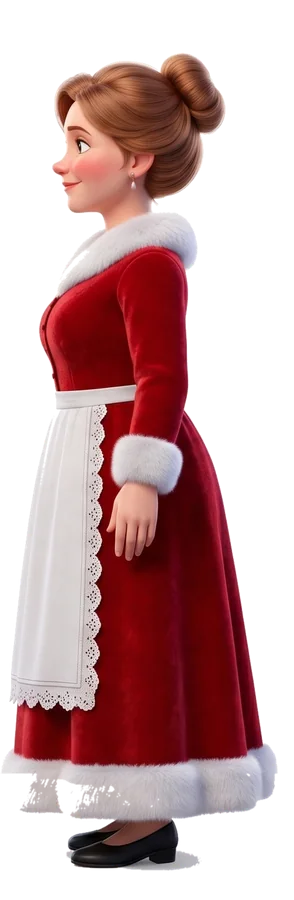
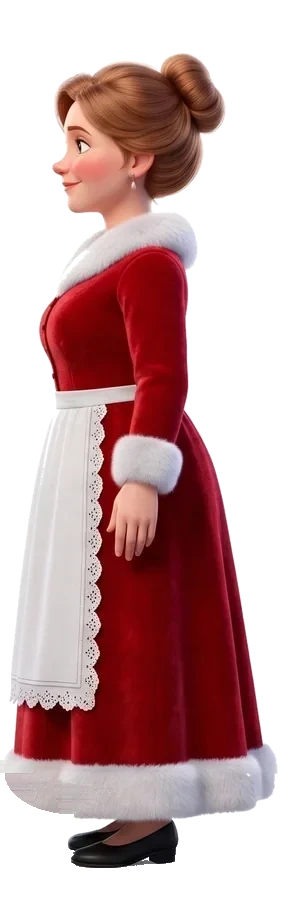
Clean search-party art, drop custom cursor, fix narrow hero
- Key out white gaps and ground shadows on all character card images;
  rebuild Mrs. Claus's hem (scripts in design-src/scripts)
- Remove the red custom-cursor dot and its JS/CSS
- Hero <=900px: copy in normal flow and hero sized to copy + scene, so
  no empty sky band; centre copy with margins so a desktop-loaded page
  doesn't shove it off-screen when narrowed; clip horizontal overflow
- Hide the secondary hero CTA on short desktop screens

diff --git a/public/css/site.css b/public/css/site.css
@@ -10,6 +10,7 @@ html{scroll-behavior:auto;-webkit-text-size-adjust:100%}
 html.lenis,html.lenis body{height:auto}
 .lenis.lenis-smooth{scroll-behavior:auto!important}
 body{background:var(--cream);color:var(--ink);font-family:var(--body);line-height:1.55;overflow-x:hidden;transition:background-color .9s var(--ease)}
+main{overflow-x:clip}
 img{display:block;max-width:100%}
 a{color:inherit}
 h1,h2,h3{font-family:var(--display);font-variation-settings:"opsz" 144,"SOFT" 100;font-weight:900;line-height:.98;text-wrap:balance;letter-spacing:-.01em}
@@ -33,11 +34,6 @@ h1,h2,h3{font-family:var(--display);font-variation-settings:"opsz" 144,"SOFT" 10
 html.no-js #pre,html.rm #pre{display:none}
 
 /* cursor */
-#cur{position:fixed;left:0;top:0;width:14px;height:14px;border-radius:50%;background:var(--red);pointer-events:none;z-index:99;display:none;transform:translate(-50%,-50%);transition:width .25s var(--ease),height .25s var(--ease),background .25s}
-#cur.on{display:block}
-#cur.big{width:72px;height:72px;background:var(--red);color:#fff;font:700 11px/72px var(--body);letter-spacing:.2em;text-align:center;text-transform:uppercase}
-#cur.big::after{content:"Join"}
-@media (hover:none),(pointer:coarse){#cur{display:none!important}}
 
 /* nav */
 nav{position:fixed;top:0;left:0;right:0;z-index:90;height:var(--nav-h);display:flex;align-items:center;justify-content:space-between;padding:0 var(--pad);color:var(--ink);transition:transform .5s var(--ease),background .4s,box-shadow .4s,height .4s var(--ease),color .4s}
@@ -119,7 +115,8 @@ nav .btn{padding:13px 20px;font-size:13px}
 .hint svg{width:18px;height:18px;fill:none;stroke:var(--red);stroke-width:2.2;stroke-linecap:round;stroke-linejoin:round}
 .hint.done{background:var(--red);color:#fff}
 .hint.done svg{stroke:#fff}
-.hero-copy{position:absolute;left:50%;transform:translateX(-50%);top:calc(var(--nav-h) + 1vh);z-index:9;pointer-events:none;width:min(760px,64vw);display:flex;flex-direction:column;align-items:center;text-align:center;gap:11px}
+/* centred with margins, not translateX(-50%): site.js scrubs a transform on .hero-copy */
+.hero-copy{position:absolute;left:0;right:0;margin:0 auto;top:calc(var(--nav-h) + 1vh);z-index:9;pointer-events:none;width:min(760px,64vw);display:flex;flex-direction:column;align-items:center;text-align:center;gap:11px}
 .hero-copy .label{color:var(--red);display:flex;align-items:center;gap:12px}
 .hero-copy .label i{display:inline-block;width:34px;height:2px;background:currentColor}
 .hero-copy h1{font-size:clamp(28px,3.5vw,52px);color:var(--ink);text-shadow:0 2px 0 rgba(255,247,236,.6)}
@@ -138,7 +135,7 @@ nav .btn{padding:13px 20px;font-size:13px}
 .minibook span{position:absolute;left:0;right:0;bottom:0;background:var(--red);color:#fff;font:700 8px/1 var(--body);letter-spacing:.18em;text-transform:uppercase;padding:6px 8px;text-align:center}
 @media (max-width:900px){
   #hero{min-height:600px}
-  .hero-copy{left:50%;right:auto;width:calc(100% - 32px);top:calc(var(--nav-h) + 6px);gap:10px}
+  .hero-copy{left:0;right:0;width:calc(100% - 32px);top:calc(var(--nav-h) + 6px);gap:10px}
   .hero-copy h1{font-size:clamp(34px,10vw,46px)}
   .hero-copy p{font-size:15px;max-width:none}
   .hero-cta .ghost{display:none}
@@ -399,7 +396,7 @@ footer .bottom{margin-top:60px;padding-top:22px;border-top:1px solid rgba(251,23
 @media (prefers-reduced-motion: reduce){
   *,*::before,*::after{animation:none!important;transition:none!important}
   html.fx .rv{opacity:1!important;transform:none!important}
-  #pre,#cur{display:none!important}
+  #pre{display:none!important}
   .ch img,.cloud,.stars i,.ch-deer,.ch-deer .q,.hunt,.findme,#peek::before{animation:none!important}
   .ch,.ch .fig{transform:none!important;opacity:1!important}
   .ch-deer{transform:none!important}
@@ -582,7 +579,7 @@ footer .bottom{margin-top:60px;padding-top:22px;border-top:1px solid rgba(251,23
 
 /* ══ deep pass: copy left, scene right; cast grounded in the snow ══ */
 @media (min-width:901px){
-  .hero-copy{left:var(--pad);transform:none;top:calc(var(--nav-h) + 3vh);width:min(540px,40vw);align-items:flex-start;text-align:left;gap:12px}
+  .hero-copy{left:var(--pad);right:auto;margin:0;top:calc(var(--nav-h) + 3vh);width:min(540px,40vw);align-items:flex-start;text-align:left;gap:12px}
   .hero-copy::before{content:"";position:absolute;inset:-10% -9%;z-index:-1;pointer-events:none;
     background:radial-gradient(ellipse at 45% 50%,rgba(255,246,238,.82) 0%,rgba(255,246,238,.55) 42%,rgba(255,246,238,0) 72%);filter:blur(6px)}
   .hero-copy p{max-width:46ch}
@@ -895,11 +892,16 @@ footer .bottom{margin-top:60px;padding-top:22px;border-top:1px solid rgba(251,23
 :root{--cs:min(44.8vw,52vh);--cx:calc(50vw - 1.0622*var(--cs));--lift:58px}
 .stable3,.nativity,.ch{bottom:calc(2vh + var(--lift))}
 .hidey,#peek{bottom:calc(1.5vh + var(--lift))}
-#cane{left:6%;bottom:calc(2vh + var(--lift) + 30vw)}
+#cane{left:6%;bottom:calc(2vh + var(--lift) + .68*var(--cs))}
 #gstar{left:20%;top:auto;bottom:calc(2vh + var(--lift) + 1.05*var(--cs))}
+/* hero is copy + scene tall instead of a full viewport, so tall phones/tablets don't get a band of empty sky */
+#hero{height:auto;min-height:0;padding-bottom:calc(var(--cs) + var(--lift) + 2vh + 7vh)}
+.hero-copy{position:relative;top:auto;margin:calc(var(--nav-h) + 6px) auto 0}
 }
 .hero-copy>p{text-shadow:0 0 10px rgba(255,244,232,.95),0 0 4px rgba(255,244,232,.95),0 0 2px rgba(255,244,232,1)}
 @media (max-width:900px){.hero-copy>p{color:#2a1f2b;font-weight:500}}
+/* short desktop screens: the secondary CTA lands on the cast's heads (the minibook and nav link go to #story too) */
+@media (min-width:901px) and (max-height:700px){.hero-cta .ghost{display:none}}
 
 /* v31: backdrop scales with the cast, not the viewport */
 #hero{--bgh:max(calc(1.667*var(--cs)),calc(100vw/2.466));

diff --git a/public/js/site.js b/public/js/site.js
@@ -217,16 +217,6 @@
   var bs=document.getElementById('bigstar');
   if(bs)bs.addEventListener('click',function(){bs.classList.remove('spin');void bs.getBoundingClientRect();bs.classList.add('spin');if(window.confettiBurst){var r=bs.getBoundingClientRect();window.confettiBurst(r.left+r.width/2,r.top+r.height/2);}});
 
-  /* custom cursor */
-  var cur=document.getElementById('cur');
-  var fine=window.matchMedia('(hover:hover) and (pointer:fine)').matches;
-  if(cur&&fine){
-    var mx=0,my=0,cx=0,cy=0,shown=false;
-    window.addEventListener('pointermove',function(e){mx=e.clientX;my=e.clientY;if(!shown){shown=true;cx=mx;cy=my;cur.classList.add('on');}},{passive:true});
-    gsap.ticker.add(function(){cx+=(mx-cx)*.2;cy+=(my-cy)*.2;cur.style.transform='translate('+cx+'px,'+cy+'px) translate(-50%,-50%)';});
-    $$('[data-cur="big"]').forEach(function(el){el.addEventListener('pointerenter',function(){cur.classList.add('big');});el.addEventListener('pointerleave',function(){cur.classList.remove('big');});});
-  }
-
   var rt;window.addEventListener('resize',function(){clearTimeout(rt);rt=setTimeout(function(){if(lenis)lenis.resize();ScrollTrigger.refresh();},150);});
   window.addEventListener('load',function(){setTimeout(function(){if(lenis)lenis.resize();ScrollTrigger.refresh();},400);});
 })();

diff --git a/content/home.html b/content/home.html
@@ -25,7 +25,6 @@
     <path class="star" d="M32 16 L36.2 26.2 L47 27 L38.6 34.2 L41.2 45 L32 39.2 L22.8 45 L25.4 34.2 L17 27 L27.8 26.2 Z"/>
   </svg>
 </div>
-<div id="cur" aria-hidden="true"></div>
 <canvas id="conf" aria-hidden="true"></canvas>
 
 <nav id="nav" aria-label="Primary">

diff --git a/design-src/scripts/whitekey.py b/design-src/scripts/whitekey.py
@@ -1,0 +1,36 @@
+"""Clear pure-white background-removal leftovers from a cut-out.
+The gaps in these renders are pure white (>=240 on every channel), while fur,
+aprons and highlights are off-white, so only near-pure-white blobs of at least
+MIN px are cleared, plus their blended fringe.
+usage: whitekey.py src out [min_px] [floor]"""
+import sys, numpy as np
+from collections import deque
+from PIL import Image
+src,out=sys.argv[1:3]; MIN=int(sys.argv[3]) if len(sys.argv)>3 else 40; FL=int(sys.argv[4]) if len(sys.argv)>4 else 240
+A=np.array(Image.open(src).convert('RGBA')).astype(np.int32)
+rgb=A[...,:3]; mn=rgb.min(-1); sat=rgb.max(-1)-mn; a=A[...,3]
+W=(mn>=FL)&(sat<14)&(a>0)
+H,Wd=W.shape; lab=np.zeros(W.shape,np.int32); keep=np.zeros_like(W); k=0
+for y,x in zip(*np.nonzero(W)):
+    if lab[y,x]: continue
+    k+=1; q=deque([(y,x)]); lab[y,x]=k; px=[]
+    while q:
+        cy,cx=q.popleft(); px.append((cy,cx))
+        for dy,dx in ((1,0),(-1,0),(0,1),(0,-1)):
+            ny,nx=cy+dy,cx+dx
+            if 0<=ny<H and 0<=nx<Wd and W[ny,nx] and not lab[ny,nx]:
+                lab[ny,nx]=k; q.append((ny,nx))
+    if len(px)>=MIN:
+        ys,xs=zip(*px); keep[list(ys),list(xs)]=True
+def grow(M):
+    G=M.copy()
+    for dy in (-1,0,1):
+        for dx in (-1,0,1): G|=np.roll(np.roll(M,dy,0),dx,1)
+    return G
+lum=rgb.mean(-1)
+# two rings of light, greyish fringe go too; then soften the next ring
+for _ in range(2): keep|=grow(keep)&(lum>205)&(sat<35)
+ring=grow(keep)&~keep
+A[keep,3]=0; A[ring,3]=(A[ring,3]*0.55).astype(np.int32)
+print(src.split('/')[-1],'cleared',int(keep.sum()))
+Image.fromarray(A.astype(np.uint8)).save(out,'WEBP',quality=90,method=6)

diff --git a/design-src/scripts/hemfill.py b/design-src/scripts/hemfill.py
@@ -1,0 +1,27 @@
+"""Patch holes that background removal punched through a light fur hem.
+Inside the rect, every pixel above a column's lowest solid pixel becomes
+solid, coloured by blending the nearest solid fur left and right on its row.
+usage: hemfill.py src out x0,y0,x1,y1"""
+import sys, numpy as np
+from PIL import Image
+src,out,r=sys.argv[1:4]; x0,y0,x1,y1=map(int,r.split(','))
+A=np.array(Image.open(src).convert('RGBA')).astype(float)
+a=A[...,3]; solid=a>200
+H=np.zeros(a.shape,bool)
+for x in range(x0,x1):
+    col=np.nonzero(solid[y0:y1,x])[0]
+    if len(col): H[y0:y0+col.max()+1,x]=~solid[y0:y0+col.max()+1,x]
+rng=np.random.default_rng(1)
+for y in range(y0,y1):
+    xs=np.nonzero(H[y])[0]
+    for x in xs:
+        l=x
+        while l>0 and not solid[y,l]: l-=1
+        r_=x
+        while r_<a.shape[1]-1 and not solid[y,r_]: r_+=1
+        cl=A[y,l,:3]; cr=A[y,r_,:3] if solid[y,r_] else cl
+        if not solid[y,l]: cl=cr
+        t=(x-l)/max(1,r_-l)
+        A[y,x,:3]=cl*(1-t)+cr*t+rng.normal(0,4,3); A[y,x,3]=255
+print('patched',int(H.sum()))
+Image.fromarray(A.clip(0,255).astype(np.uint8)).save(out,'WEBP',quality=90,method=6)

diff --git a/design-src/scripts/hemmirror.py b/design-src/scripts/hemmirror.py
@@ -1,0 +1,13 @@
+"""Rebuild one side of a symmetric hem by mirroring the other side about cx,
+feathering across `fw` px at the side seam and along the top of the band.
+usage: hemmirror.py src out cx x_from y0 y1 [fw]   (replaces x >= x_from)"""
+import sys, numpy as np
+from PIL import Image
+src,out=sys.argv[1:3]; cx,xf,y0,y1=map(int,sys.argv[3:7]); fw=int(sys.argv[7]) if len(sys.argv)>7 else 16
+A=np.array(Image.open(src).convert('RGBA')).astype(float); B=A.copy()
+for x in range(xf,A.shape[1]):
+    sx=2*cx-x
+    if sx<0: B[y0:y1,x,3]=0; continue
+    w=min(1,(x-xf)/fw)*np.clip((np.arange(y0,y1)-y0)/fw,0,1)[:,None]
+    B[y0:y1,x]=A[y0:y1,sx]*w+A[y0:y1,x]*(1-w)
+Image.fromarray(B.clip(0,255).astype(np.uint8)).save(out,'WEBP',quality=90,method=6)

diff --git a/design-src/scripts/feet.py b/design-src/scripts/feet.py
@@ -1,0 +1,14 @@
+"""Remove the light-grey ground shadow under a cut-out's feet: in the bottom
+`frac` of the figure's bounding box, light, grey pixels become transparent.
+usage: feet.py src out [frac]"""
+import sys, numpy as np
+from PIL import Image
+src,out=sys.argv[1:3]; frac=float(sys.argv[3]) if len(sys.argv)>3 else 0.05
+A=np.array(Image.open(src).convert('RGBA')).astype(np.int32)
+rgb=A[...,:3]; lum=rgb.mean(-1); sat=rgb.max(-1)-rgb.min(-1)
+ys=np.nonzero(A[...,3].max(1)>20)[0]; top,bot=ys.min(),ys.max()
+y0=int(bot-(bot-top)*frac)
+M=np.zeros(lum.shape,bool); M[y0:]=(lum[y0:]>120)&(sat[y0:]<28)
+A[M,3]=0
+print(src.split('/')[-1],'band from',y0,'cleared',int(M.sum()))
+Image.fromarray(A.astype(np.uint8)).save(out,'WEBP',quality=90,method=6)

diff --git a/docs/HANDOFF.md b/docs/HANDOFF.md
@@ -22,7 +22,7 @@ _Last updated 2026-10-17. Picks up from a long Cowork design session; this repo 
 | `#series` | Three series cards; card 1 (Book One) has the book-one spread full-bleed across its top |
 | `#join` | Launch-list CTA |
 
-**Interactions (`public/js/site.js`):** preloader; custom cursor (fine pointers only); Lenis smooth scroll; parallax via `data-depth`; tap a character → speech bubble from `data-say`; hidden-object hunt (candy cane `#cane`, star `#gstar`, peeking Reindeer `#deer`/`#peek`) with counter `#counter` and confetti `#conf`; sound toggle `#sfx`; `prefers-reduced-motion` respected.
+**Interactions (`public/js/site.js`):** preloader; Lenis smooth scroll; parallax via `data-depth`; tap a character → speech bubble from `data-say`; hidden-object hunt (candy cane `#cane`, star `#gstar`, peeking Reindeer `#deer`/`#peek`) with counter `#counter` and confetti `#conf`; sound toggle `#sfx`; `prefers-reduced-motion` respected.
 
 ## How the hero works (read before touching it)
 
@@ -78,6 +78,10 @@ Images were generated with Higgsfield (`gpt_image_2_5`) and background-removed t
 - **No hoofprints:** the `#hoof` symbol is now `#boot` (the search party's boot prints). `.hoof` became `.print` in HTML/CSS/JS. The trail marker is Santa (`santa-side.webp`, no flip). The story card says "Follow the trail ↓", and the elf boy says "Which way did they go?".
 - **Reindeer hiding spot** is a snowdrift: alt text, `#peek` label and the "Tap the snowdrift!" callout.
 - **`#series` card 1:** the book-one spread is full-bleed across the top of the card (5:4, 4:3 below 900px). The elf boy/girl cut-outs are gone.
+- **Search-party card art** (`*-front.webp`, `*-side.webp`, `reindeer*.webp`): pure-white gaps keyed out with `whitekey.py` (the gaps are 255-white; fur and aprons are off-white, so a near-white key with a 40px minimum blob is safe), ground shadows removed with `feet.py` (bottom 6% of the canvas, 10% for `santa-front` and both reindeer), and Mrs. Claus's punched-through hem rebuilt with `hemfill.py` + `hemmirror.py` (front mirrored about x=171; side rounded off where the canvas crops it). The pink halo on the side Reindeer's nose is the rendered glow; leave it.
+- **Custom cursor removed** (the red dot that followed the mouse and grew into "Join" over CTAs). `data-cur="big"` stays: the confetti on CTAs uses it.
+- **Hero ≤900px:** `.hero-copy` is in normal flow, and `#hero` is copy + `--cs` + lift tall instead of a full viewport, so tall phones and tablets don't get a band of empty sky. The candy cane is on the `--cs` grid. `.hero-copy` is centred with margins rather than `translateX(-50%)`, because `site.js` scrubs a transform on it and GSAP's inline transform used to wipe out the centring when a desktop-loaded page was narrowed. `main{overflow-x:clip}` stops the snowdrift and the parked series-card fan from widening the page.
+- **Short desktop screens** (`min-width:901px` and `max-height:700px`): the "Read about the book" button is hidden; it landed on the cast's heads.
 - **Hero CSS stack (#3)** not collapsed: these fixes didn't touch hero positioning, so it's still worth doing before the next real hero change.
 
 ## Private docs (gitignored, `docs/private/`)
